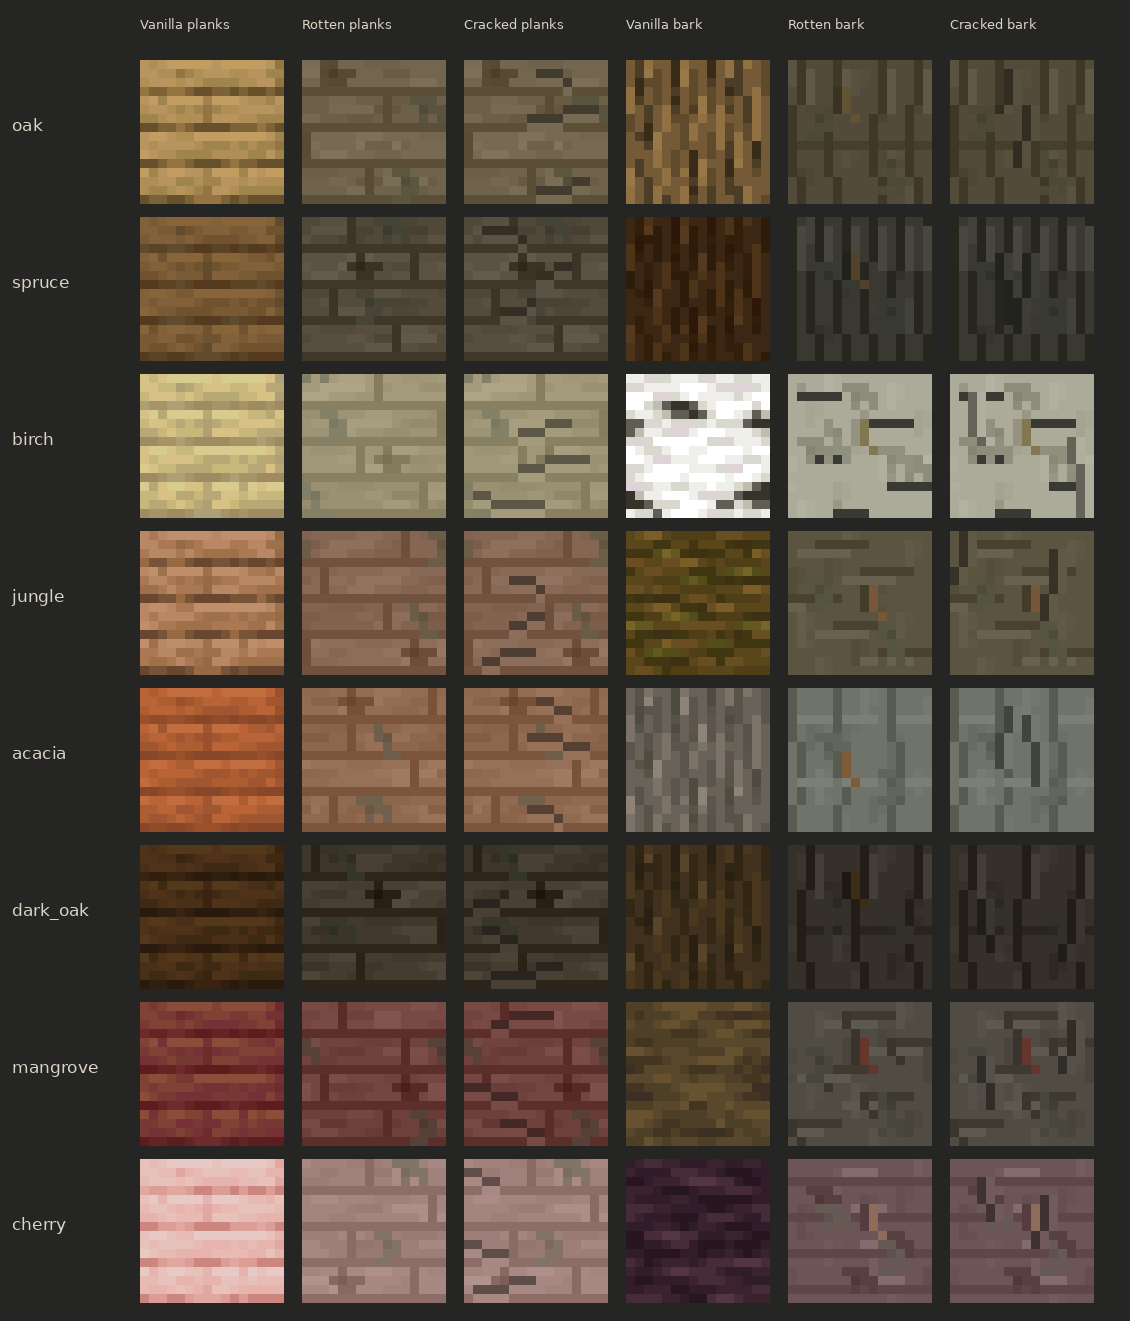
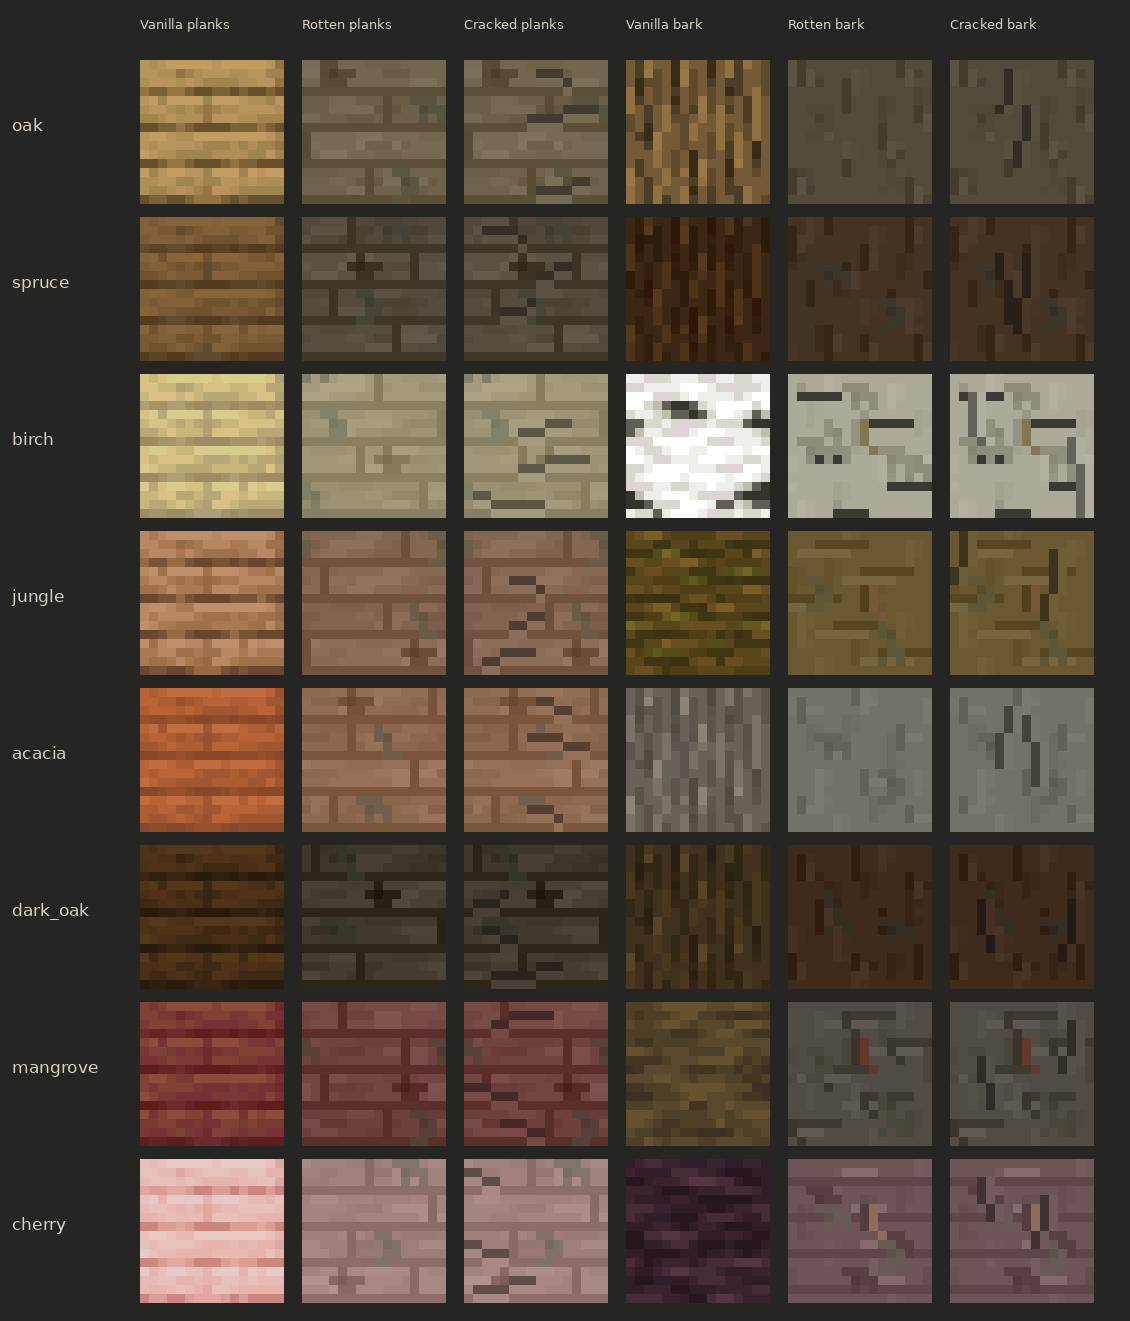
Restore warm bark colors and replace straight strips with broken fibers

diff --git a/rotten_wood/README_RU.md b/rotten_wood/README_RU.md
@@ -2,7 +2,7 @@
 
 48 непрозрачных RGB-текстур 16×16 и 32 стандартные JSON-модели Minecraft 1.21.1. Авторские рисунки созданы заново из отдельных волокон, стыков, коровых пластин, колец и локальных пятен гнили; не являются перекрашенными ванильными PNG. Ванильные изображения использованы только для сравнительных превью.
 
-Дуб: грубая серо-коричневая кора; ель: тонкие холодные тёмные волокна; берёза: светлая бумажная кора и чёрные отметины; тропическое дерево: косые тёплые пластины; акация: широкая серая кора и оранжеватый торец; тёмный дуб: тёмные широкие гребни; мангр: буро-красная древесина и извилистые борозды; вишня: пыльный розовый и поперечные полосы коры.
+Дуб: грубая серо-коричневая кора; ель: тонкие тёплые тёмно-коричневые волокна; берёза: светлая бумажная кора и чёрные отметины; тропическое дерево: охристо-коричневые пластины; акация: широкая серая кора и оранжеватый торец; тёмный дуб: насыщенная тёмно-коричневая кора; мангр: буро-красная древесина и извилистые борозды; вишня: пыльный розовый и поперечные полосы коры.
 
 Обычная гниль локальная, цельность древесины сохранена. Cracked дополнен осветлёнными продольными расколами с отдельной нерегулярной композицией для каждой породы и поверхности и светлыми кромками обнажённых волокон; торцы имеют радиальные повреждения. Превью показывают реальные PNG с nearest-neighbor, включая повторение 2×2.
 
@@ -10,4 +10,4 @@
 
 Проверены количество, размеры, непрозрачность, уникальность PNG, различия версий, JSON и все ссылки. В игре не проверялось: блоки ещё не зарегистрированы. Gradle для графических ресурсов не запускался. Текстуры рассчитаны на повторение стандартными кубами, трещины не изменяют геометрию.
 
-Коллекция опубликована по запросу автора проекта. В треснутых брёвнах дуба, ели, акации и тёмного дуба убрана ровная полоса обнажённой древесины; кора и трещины сохранены. Расположение трещин фиксировано в PNG; динамическая рандомизация блоков не добавлялась.
+Коллекция опубликована по запросу автора проекта. В обычных и треснутых брёвнах дуба, ели, акации и тёмного дуба убраны ровная полоса обнажённой древесины и длинные прямые полосы коры; заменены короткими неравномерными волокнами; кора и трещины сохранены. Расположение трещин фиксировано в PNG; динамическая рандомизация блоков не добавлялась.
